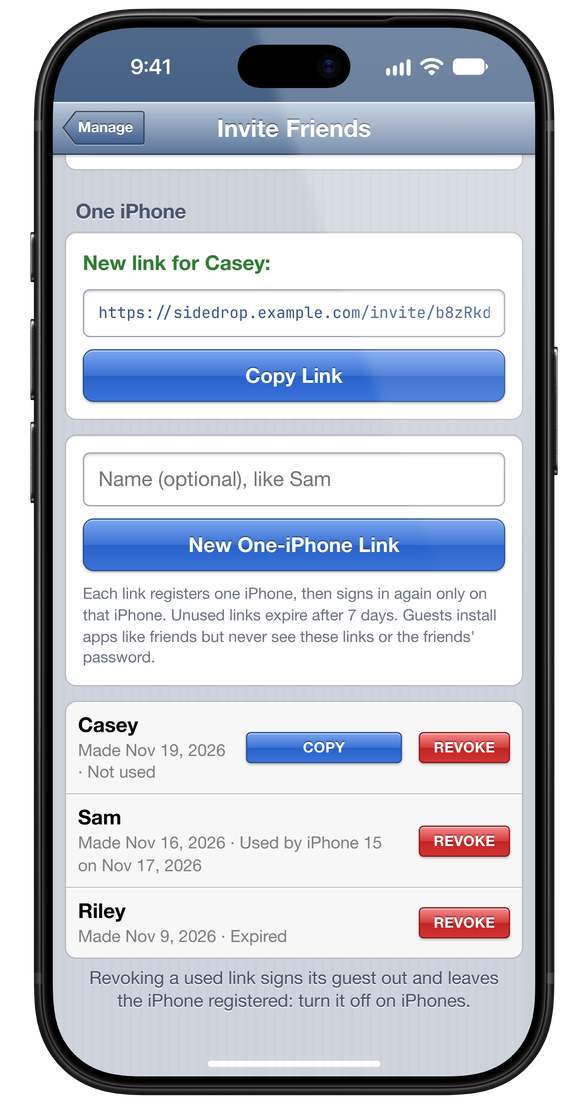
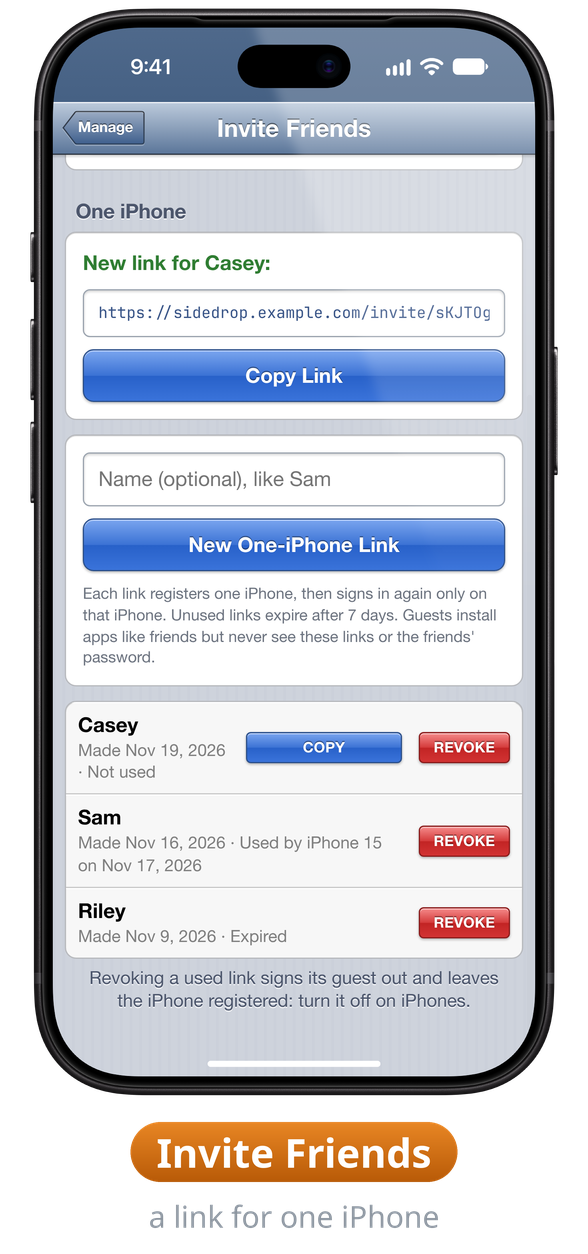
README screenshots labeled in the image: docs/readme_shots.py draws each phone's name on an amber pill with a grey line under it (Noto Sans; reads on GitHub light and dark), so every phone is the same size and its label under it; the Screenshots and admin tables become rows of images

diff --git a/docs/readme_shots.py b/docs/readme_shots.py
@@ -14,7 +14,8 @@ finished PNGs are written to docs/img:
 
 - <name>.png: the screen with the kit's iOS 27 status bar (white, "Dark Background") and home indicator drawn on it,
   a soft diagonal sheen, in the iPhone 18 Pro bezel, scaled to 0.4 of the 3x bezel (540x1104) with 24 transparent
-  pixels left and right, so phones side by side in the README don't touch;
+  pixels left and right, so phones side by side in the README don't touch, and its label from LABELS drawn under it
+  (the name on an amber pill, a line in grey: readable on GitHub's light and dark), so captions can't drift;
 - crop-<name>.png: a part of a page (the settings that matter), at the same scale as the phones' screens (0.4 of 3x),
   with rounded corners and no bezel.
 
@@ -34,6 +35,15 @@ K = 3  # captures and the bezel bitmap are 3x
 SAFE = {"top": 62, "bottom": 34, "left": 0, "right": 0}
 SCALE = 0.4  # of the 3x bezel: sharp at the README's ~200 px per phone on a 2x screen
 PAD = 24
+LABELS = {  # name: (the label's pill, the line under it), drawn under the phone (crops get none)
+    "apps": ("Apps", "your apps, ready to install"), "changes": ("Changes", "new versions, updates on top"),
+    "install": ("Install", "apps that bring their files"), "settings": ("Settings", "this iPhone's status"),
+    "manage": ("Manage", "the admin's menu"), "iphones": ("iPhones", "switch one off any time"),
+    "signing": ("Signing", "certificate and API key"), "passwords": ("Passwords", "change who gets in"),
+    "invites": ("Invite Friends", "a link for one iPhone"), "files": ("Files", "share files with everyone"),
+    "sources": ("App Sources", "mirror AltStore sources"),
+}
+font_file = lambda pattern: subprocess.run(["fc-match", "-f", "%{file}", pattern], capture_output=True, text=True, check=True).stdout  # Noto Sans
 UA = ("Mozilla/5.0 (iPhone; CPU iPhone OS 27_0 like Mac OS X) AppleWebKit/605.1.15 (KHTML, like Gecko) Version/27.0 "
       "Mobile/15E148 Safari/604.1")
 IPHONE = dict(viewport={"width": SCREEN_PT[0], "height": SCREEN_PT[1]}, device_scale_factor=K, is_mobile=True, has_touch=True,
@@ -230,10 +240,33 @@ def framing():
         else:
             img = rounded(shot, SCREEN_RADIUS_PT * K)
         img = scaled(img)
-        out = Image.new("RGBA", (img.width + 2 * PAD, img.height), (0, 0, 0, 0))
+        lab = label(*LABELS[src.stem], img.width + 2 * PAD) if src.stem in LABELS else None
+        out = Image.new("RGBA", (img.width + 2 * PAD, img.height + (lab.height if lab else 0)), (0, 0, 0, 0))
         out.alpha_composite(img, (PAD, 0))
+        if lab:
+            out.alpha_composite(lab, (0, img.height))
         out.save(dst, optimize=True)
         print(f"wrote {dst} {out.width}x{out.height} {dst.stat().st_size // 1024} KB")
+
+    def label(title, sub, width):
+        """The caption under a phone, drawn into the PNG so it always sits under its own phone at the same size (a
+        Markdown table sizes its columns by caption length). It has to read on GitHub's white and its near-black
+        alike, so no plain dark text: the name in white on a SideDrop-amber pill, the line under it in a grey
+        between the two backgrounds. Noto Sans (free to publish), sized for ~200 px per phone in the README."""
+        lab = Image.new("RGBA", (width * SS, 150 * SS), (0, 0, 0, 0))  # drawn 4x, scaled down: smooth pill edges
+        d, cx = ImageDraw.Draw(lab), width * SS // 2
+        big = ImageFont.truetype(font_file("Noto Sans:bold"), 40 * SS)
+        tw = d.textlength(title, font=big)
+        top, ph = 18 * SS, 60 * SS
+        pill = Image.new("RGBA", (int(tw + 52 * SS), ph))
+        grad = Image.linear_gradient("L").resize(pill.size)  # amber, lighter at the top, as the icon's
+        pill = Image.composite(Image.new("RGBA", pill.size, (184, 90, 7, 255)), Image.new("RGBA", pill.size, (232, 134, 36, 255)), grad)
+        mask = Image.new("L", pill.size, 0)
+        ImageDraw.Draw(mask).rounded_rectangle((0, 0, pill.width - 1, ph - 1), ph // 2, fill=255)
+        lab.paste(pill, (cx - pill.width // 2, top), mask)
+        d.text((cx, top + ph // 2), title, font=big, fill=(255, 255, 255, 255), anchor="mm")
+        d.text((cx, top + ph + 34 * SS), sub, font=ImageFont.truetype(font_file("Noto Sans"), 30 * SS), fill=(140, 149, 159, 255), anchor="mm")
+        return lab.resize((width, 150), Image.LANCZOS)
 
     def crop(src, dst):
         img = rounded(scaled(Image.open(src).convert("RGBA")), CROP_RADIUS_PT * K * SCALE)

diff --git a/README.md b/README.md
@@ -74,10 +74,12 @@ graph TD
 What a friend sees: a local run with demo data (made-up apps, iPhones and account; nothing from a real server) at the
 iPhone 18 Pro's screen size, framed in its bezel. [`docs/readme_shots.py`](docs/readme_shots.py) makes them again.
 
-| | | | |
-|:-:|:-:|:-:|:-:|
-| <img src="docs/img/apps.png" alt="Apps: this iPhone's tile, iFizBox, the apps and their install state" width="200"> | <img src="docs/img/changes.png" alt="Changes: new versions by date, the update waiting for this iPhone on top" width="200"> | <img src="docs/img/install.png" alt="An app install: GET opens the steps of an app that needs a file" width="200"> | <img src="docs/img/settings.png" alt="Settings: this iPhone's status, the slots used and when the apps stop working" width="200"> |
-| **Apps** with install state | **Changes** with the update waiting on top | **An install** that brings a file | **Settings** with this iPhone's status |
+<p align="center">
+  <img src="docs/img/apps.png" alt="Apps: the apps and their install state" width="24%">
+  <img src="docs/img/changes.png" alt="Changes: new versions, the update waiting on top" width="24%">
+  <img src="docs/img/install.png" alt="Install: an app that brings a file" width="24%">
+  <img src="docs/img/settings.png" alt="Settings: this iPhone's status" width="24%">
+</p>
 
 ## Quick start
 
@@ -119,12 +121,16 @@ Put IPAs in `data/apps/` or list AltStore sources (see [Apps, sources and files]
 
 Sign in with the admin password instead of the friends' one and **Settings → Manage** appears. Friends never see it.
 
-| | | |
-|:-:|:-:|:-:|
-| <img src="docs/img/iphones.png" alt="iPhones" width="250"> | <img src="docs/img/signing.png" alt="Signing" width="250"> | <img src="docs/img/passwords.png" alt="Passwords" width="250"> |
-| **iPhones**: every device on the account; a switch takes one out of the profile | **Signing**: the certificate, App ID and API key; a new certificate in one tap | **Passwords**: change the friends' or the admin password |
-| <img src="docs/img/invites.png" alt="Invite Friends, with a new one-iPhone link for Casey" width="250"> | <img src="docs/img/files.png" alt="Files for Friends, two files uploading" width="250"> | <img src="docs/img/sources.png" alt="App Sources" width="250"> |
-| **Invite Friends**: a link for anyone, or one that registers one iPhone | **Files for Friends**: upload files everyone sees under Files | **App Sources**: the AltStore sources to mirror and sign |
+<p align="center">
+  <img src="docs/img/iphones.png" alt="iPhones: every device on the account; a switch takes one out of the profile" width="32%">
+  <img src="docs/img/signing.png" alt="Signing: the certificate, App ID and API key; a new certificate in one tap" width="32%">
+  <img src="docs/img/passwords.png" alt="Passwords: change the friends' or the admin password" width="32%">
+</p>
+<p align="center">
+  <img src="docs/img/invites.png" alt="Invite Friends: a link for anyone, or one that registers one iPhone" width="32%">
+  <img src="docs/img/files.png" alt="Files for Friends: two files uploading" width="32%">
+  <img src="docs/img/sources.png" alt="App Sources: the AltStore sources to mirror and sign" width="32%">
+</p>
 
 **iFizBox** edits the sources and settings iFizBox starts with, and Manage warns at the top when the certificate is
 about to expire or can't sign. The details are in [docs/configuration.md](docs/configuration.md#manage-in-more-detail).
